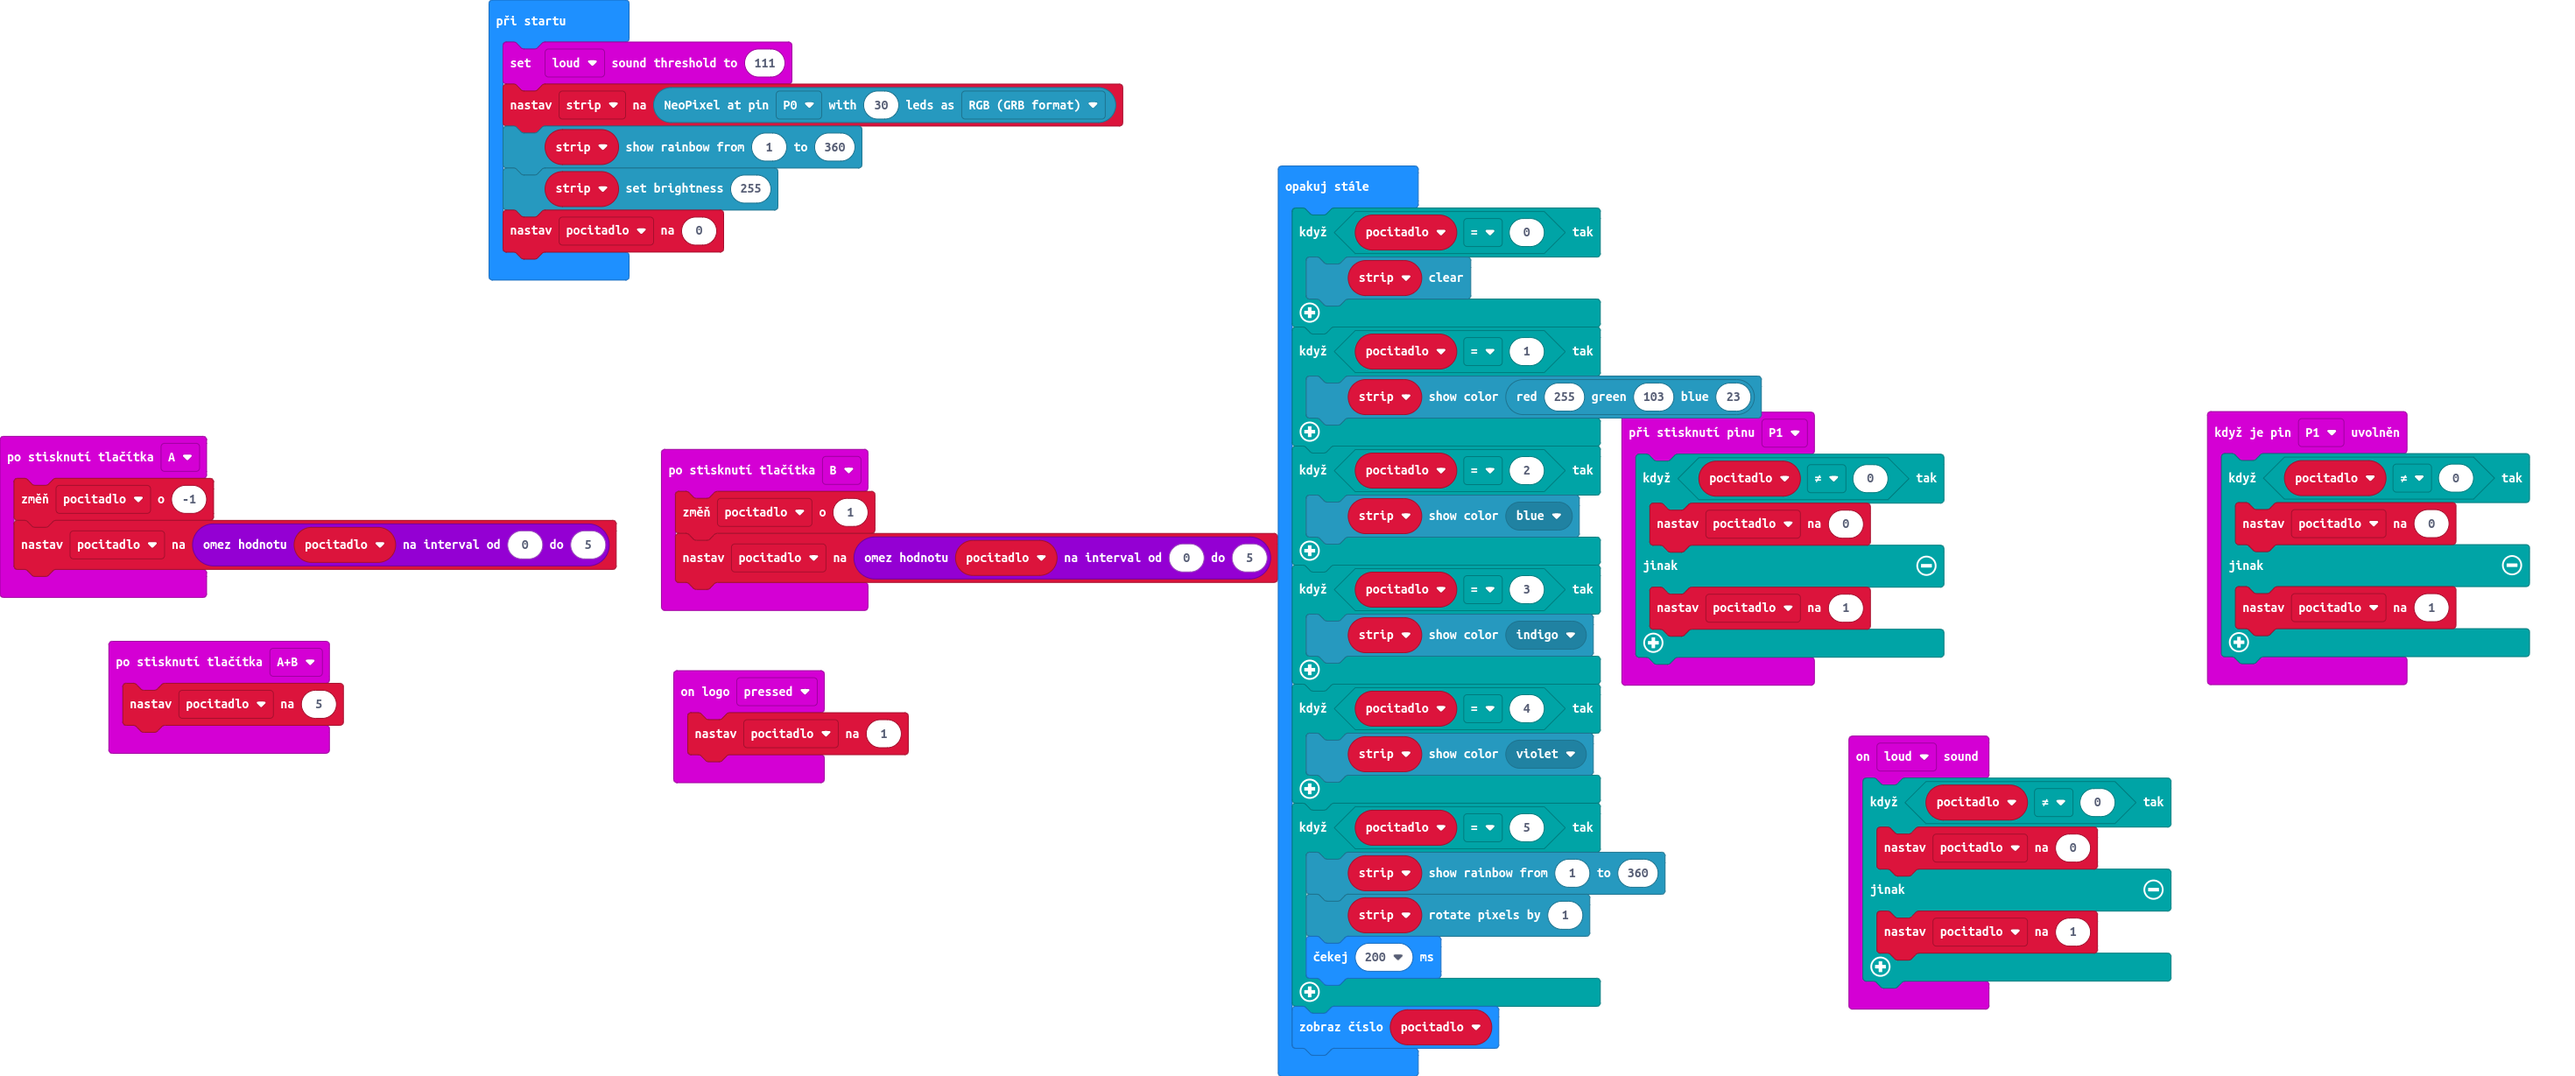
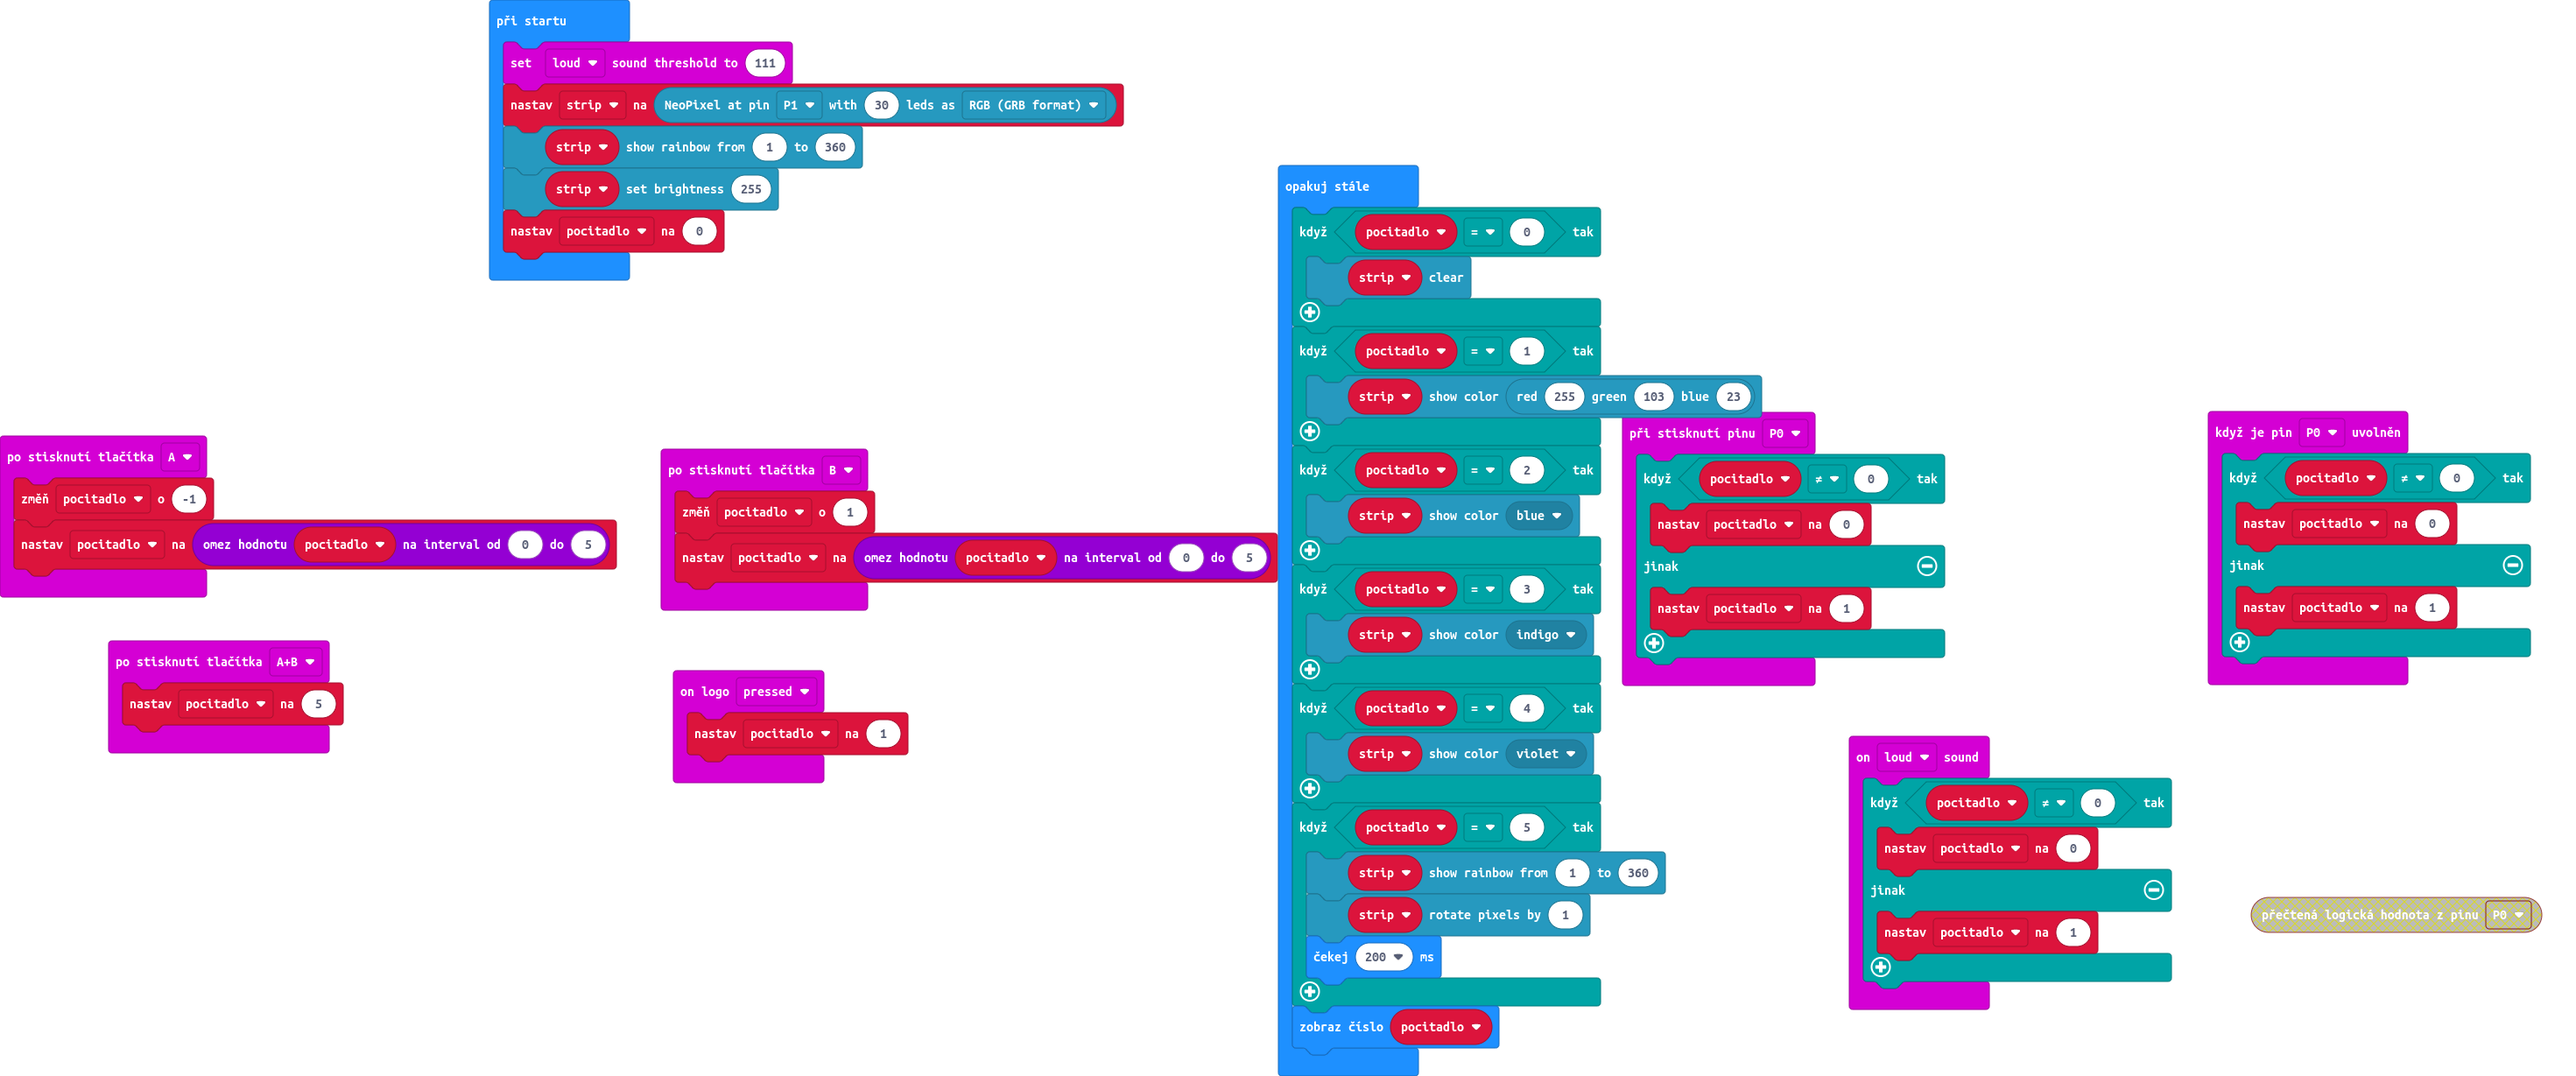
Aktualizovat pxt.json, main.blocks, main.ts

diff --git a/main.ts b/main.ts
@@ -1,3 +1,17 @@
+input.onPinPressed(TouchPin.P0, function () {
+    if (pocitadlo != 0) {
+        pocitadlo = 0
+    } else {
+        pocitadlo = 1
+    }
+})
+input.onPinReleased(TouchPin.P0, function () {
+    if (pocitadlo != 0) {
+        pocitadlo = 0
+    } else {
+        pocitadlo = 1
+    }
+})
 input.onButtonPressed(Button.A, function () {
     pocitadlo += -1
     pocitadlo = Math.constrain(pocitadlo, 0, 5)
@@ -16,26 +30,12 @@ input.onButtonPressed(Button.B, function () {
     pocitadlo += 1
     pocitadlo = Math.constrain(pocitadlo, 0, 5)
 })
-input.onPinPressed(TouchPin.P1, function () {
-    if (pocitadlo != 0) {
-        pocitadlo = 0
-    } else {
-        pocitadlo = 1
-    }
-})
-input.onPinReleased(TouchPin.P1, function () {
-    if (pocitadlo != 0) {
-        pocitadlo = 0
-    } else {
-        pocitadlo = 1
-    }
-})
 input.onLogoEvent(TouchButtonEvent.Pressed, function () {
     pocitadlo = 1
 })
 let pocitadlo = 0
 input.setSoundThreshold(SoundThreshold.Loud, 111)
-let strip = neopixel.create(DigitalPin.P0, 30, NeoPixelMode.RGB)
+let strip = neopixel.create(DigitalPin.P1, 30, NeoPixelMode.RGB)
 strip.showRainbow(1, 360)
 strip.setBrightness(255)
 pocitadlo = 0
